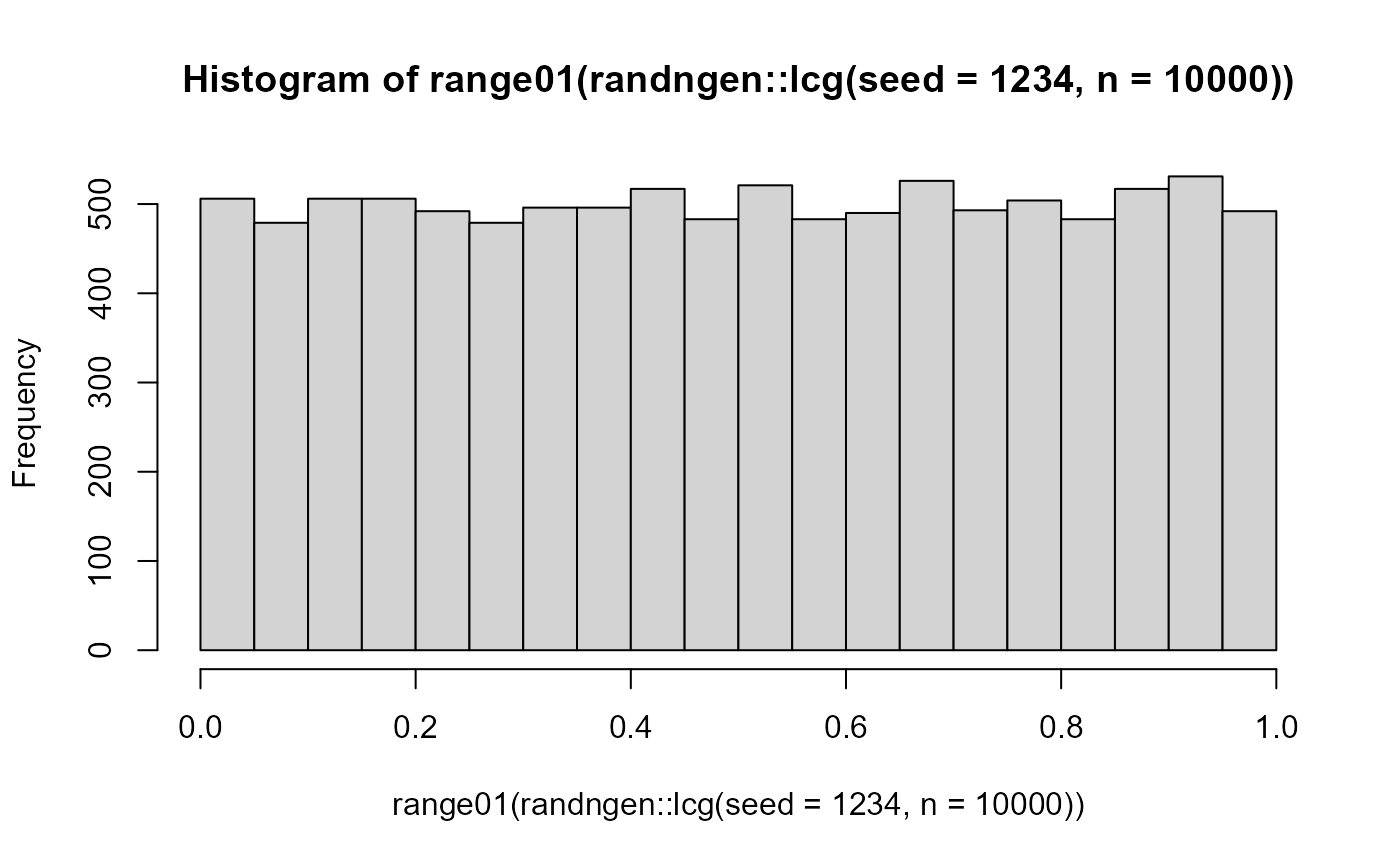
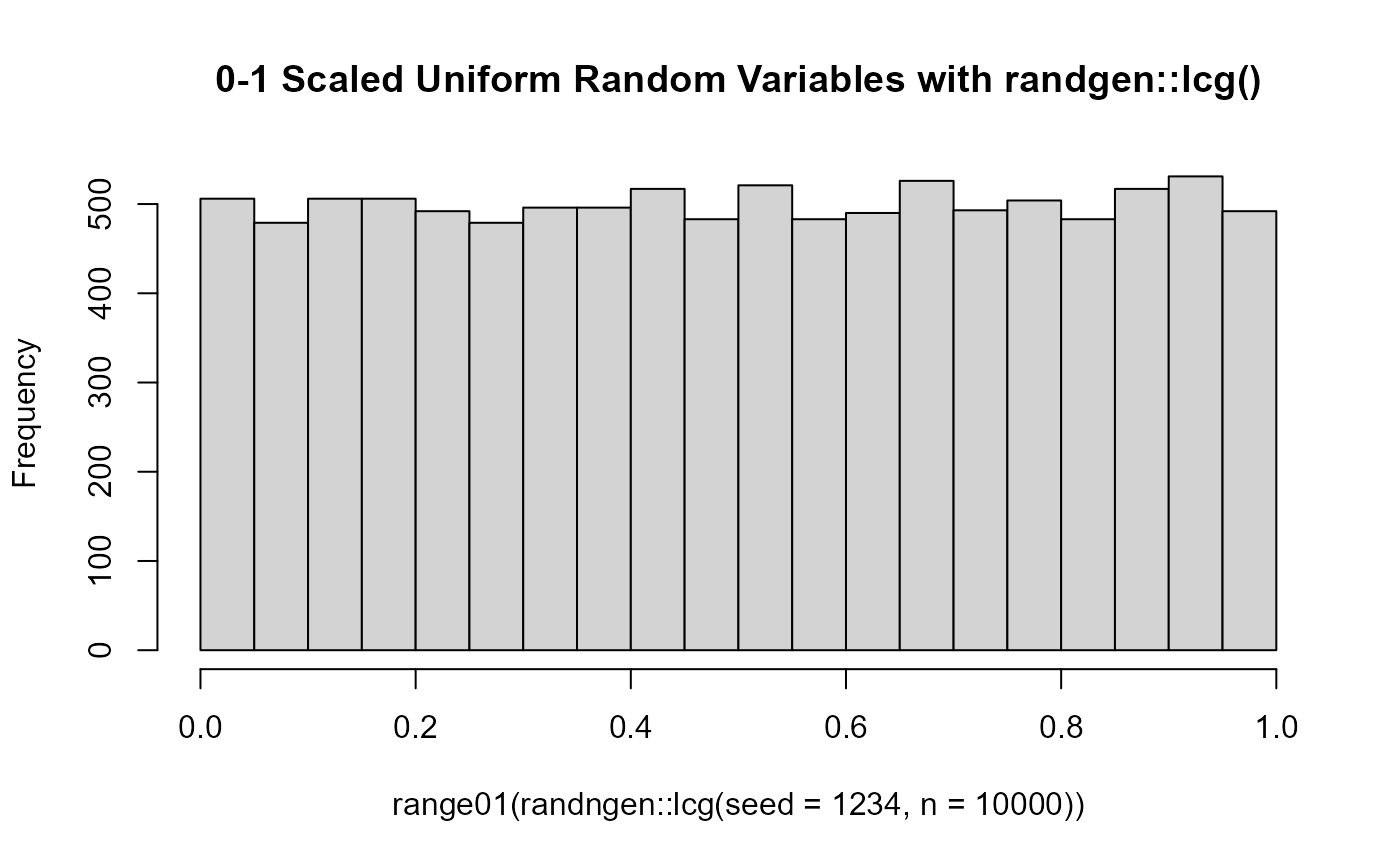
commnet

Changed region(s): [[0.1229, 0.0624, 0.9214, 0.1249]]

diff --git a/docs/articles/understanding-prngs.html b/docs/articles/understanding-prngs.html
@@ -125,17 +125,18 @@ parameters.</p>
 <div class="sourceCode" id="cb2"><pre class="downlit sourceCode r">
 <code class="sourceCode R"><span><span class="kw"><a href="https://rdrr.io/r/base/library.html" class="external-link">library</a></span><span class="op">(</span><span class="va">randngen</span><span class="op">)</span></span>
 <span></span>
+<span><span class="co"># Function from here: https://stackoverflow.com/questions/5468280/scale-a-series-between-two-points</span></span>
 <span><span class="va">range01</span> <span class="op">&lt;-</span> <span class="kw">function</span><span class="op">(</span><span class="va">x</span><span class="op">)</span><span class="op">{</span><span class="op">(</span><span class="va">x</span><span class="op">-</span><span class="fu"><a href="https://rdrr.io/r/base/Extremes.html" class="external-link">min</a></span><span class="op">(</span><span class="va">x</span><span class="op">)</span><span class="op">)</span><span class="op">/</span><span class="op">(</span><span class="fu"><a href="https://rdrr.io/r/base/Extremes.html" class="external-link">max</a></span><span class="op">(</span><span class="va">x</span><span class="op">)</span><span class="op">-</span><span class="fu"><a href="https://rdrr.io/r/base/Extremes.html" class="external-link">min</a></span><span class="op">(</span><span class="va">x</span><span class="op">)</span><span class="op">)</span><span class="op">}</span></span>
 <span></span>
 <span></span>
 <span><span class="fu">randngen</span><span class="fu">::</span><span class="fu"><a href="../reference/lcg.html">lcg</a></span><span class="op">(</span>seed <span class="op">=</span> <span class="fl">1234</span>, n<span class="op">=</span><span class="fl">10000</span><span class="op">)</span><span class="op">|&gt;</span></span>
 <span>  <span class="fu">range01</span><span class="op">(</span><span class="op">)</span><span class="op">|&gt;</span></span>
-<span>  <span class="fu"><a href="https://rdrr.io/r/graphics/hist.html" class="external-link">hist</a></span><span class="op">(</span><span class="op">)</span></span></code></pre></div>
+<span>  <span class="fu"><a href="https://rdrr.io/r/graphics/hist.html" class="external-link">hist</a></span><span class="op">(</span>main<span class="op">=</span> <span class="st">"0-1 Scaled Uniform Random Variables with randgen::lcg()"</span><span class="op">)</span></span></code></pre></div>
 <p><img src="understanding-prngs_files/figure-html/unnamed-chunk-4-1.png" width="700"></p>
 <div class="sourceCode" id="cb3"><pre class="downlit sourceCode r">
 <code class="sourceCode R"><span><span class="fu"><a href="https://rdrr.io/r/base/Random.html" class="external-link">set.seed</a></span><span class="op">(</span><span class="fl">1234</span><span class="op">)</span></span>
 <span><span class="fu"><a href="https://rdrr.io/r/stats/Uniform.html" class="external-link">runif</a></span><span class="op">(</span><span class="fl">10000</span><span class="op">)</span><span class="op">|&gt;</span></span>
-<span>  <span class="fu"><a href="https://rdrr.io/r/graphics/hist.html" class="external-link">hist</a></span><span class="op">(</span><span class="op">)</span></span></code></pre></div>
+<span>  <span class="fu"><a href="https://rdrr.io/r/graphics/hist.html" class="external-link">hist</a></span><span class="op">(</span>main<span class="op">=</span> <span class="st">"0-1 Uniform Random Variables with runif()"</span><span class="op">)</span></span></code></pre></div>
 <p><img src="understanding-prngs_files/figure-html/unnamed-chunk-5-1.png" width="700"></p>
 </div>
 <div class="section level2">
